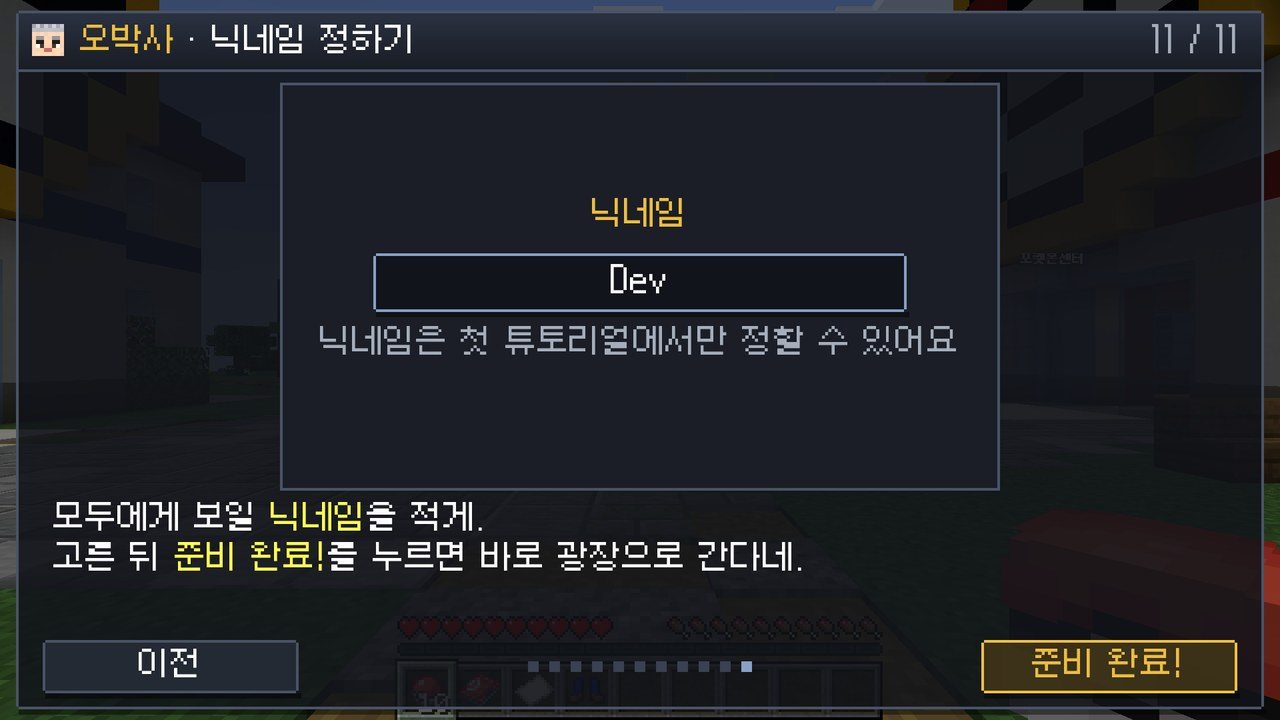
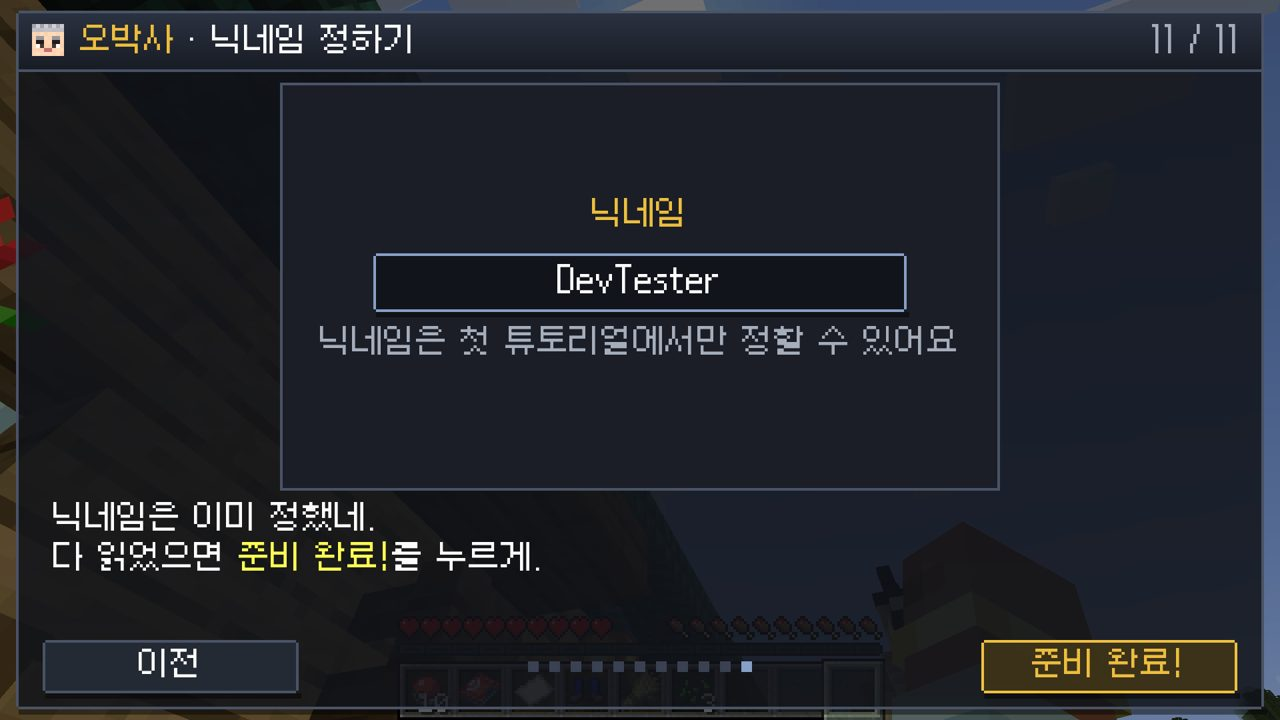
광장 고정 구역: 밭 밟기·화분·통 등 우클릭·라이터 막기, 불 번짐 끔, 닉네임 없는 사람은 다시 보기에서 저장
- FarmlandMixin: 고정 구역(광장·마을·튜토리얼 방) 밭은 흙이 되지 않음, 농장은 주인만
- 라이터·화염구·양동이도 고칠 수 있는 자리에서만
- gamerule doFireTick false
- 문서·사진 갱신

Claude-Session: https://claude.ai/code/session_01KfYadX4RQW6s5szTxe11BK

diff --git a/tests/datapack-test.js b/tests/datapack-test.js
@@ -51,6 +51,7 @@ const join = name => new Promise((res, rej) => {
 
   // 4·7. 규칙
   assert.match(await cmd('gamerule keepInventory'), /true/, '인벤세이브')
+  assert.match(await cmd('gamerule doFireTick'), /false/, '불이 번지거나 블록을 태우지 않음')
   await ok('execute as A if predicate poke:has_saturation', '배고픔 없음')
   await cmd('execute in minecraft:overworld run summon minecraft:zombie 0 -59 0')
   await cmd('execute in minecraft:overworld run summon minecraft:villager 2 -59 0 {NoAI:1b}')

diff --git a/mod/src/main/java/com/pokeserver/Protection.java b/mod/src/main/java/com/pokeserver/Protection.java
@@ -20,9 +20,28 @@ import net.minecraft.world.item.BucketItem;
 import net.minecraft.world.phys.BlockHitResult;
 import net.minecraft.world.phys.HitResult;
 
-/** 6. 농장: 주인만 편집, 다른 사람은 구경만. */
-final class Protection {
+/** 6. 농장: 주인만 편집, 다른 사람은 구경만. 광장·마을·튜토리얼 방은 고정 구역(아무도 못 바꿈). */
+public final class Protection {
     private Protection() {}
+
+    /** 고정 구역: 광장 둘레, 마을, 튜토리얼 방. */
+    public static boolean frozen(net.minecraft.world.level.Level level, net.minecraft.core.BlockPos pos) {
+        String dim = level.dimension().location().toString();
+        return dim.equals("poke:town") || dim.equals("poke:hub") || Plaza.protects(level, pos);
+    }
+
+    /** 우클릭만으로 모습이 바뀌거나 물건이 나오는 블록 (화분 꽃 빼기, 통 안 물건, 모닥불 음식 등). 문·PC·회복 기계·작업대는 그대로 사용. */
+    static boolean changesOnUse(net.minecraft.world.level.block.Block b) {
+        return b instanceof net.minecraft.world.level.block.FlowerPotBlock || b instanceof net.minecraft.world.level.block.BarrelBlock
+                || b instanceof net.minecraft.world.level.block.ChestBlock || b instanceof net.minecraft.world.level.block.CampfireBlock
+                || b instanceof net.minecraft.world.level.block.LecternBlock || b instanceof net.minecraft.world.level.block.ComposterBlock
+                || b instanceof net.minecraft.world.level.block.CakeBlock || b instanceof net.minecraft.world.level.block.CandleBlock
+                || b instanceof net.minecraft.world.level.block.CandleCakeBlock || b instanceof net.minecraft.world.level.block.SweetBerryBushBlock
+                || b instanceof net.minecraft.world.level.block.JukeboxBlock || b instanceof net.minecraft.world.level.block.NoteBlock
+                || b instanceof net.minecraft.world.level.block.DiodeBlock || b instanceof net.minecraft.world.level.block.DaylightDetectorBlock
+                || b instanceof net.minecraft.world.level.block.BeehiveBlock || b instanceof net.minecraft.world.level.block.DecoratedPotBlock
+                || b instanceof net.minecraft.world.level.block.ChiseledBookShelfBlock;
+    }
 
     /** 체력바 위 가운데 알림: 누구 땅인지. */
     static void deny(Player p, net.minecraft.world.level.Level level, net.minecraft.core.BlockPos pos) {
@@ -55,10 +74,18 @@ final class Protection {
         });
         UseBlockCallback.EVENT.register((player, level, hand, hit) -> {
             if (level.isClientSide()) return InteractionResult.PASS;
-            // 5. 농장 밖(광장 등): 문·PC·회복 기계는 쓰고, 블록은 고칠 수 있는 자리에만 놓음
+            // 5. 농장 밖(광장 등): 문·PC·회복 기계는 쓰고, 블록·불·물은 고칠 수 있는 자리에만 놓음
             if (!Farms.isFarm(level)) {
-                if (!(player.getItemInHand(hand).getItem() instanceof BlockItem)
-                        || Farms.canEdit(player, level, hit.getBlockPos().relative(hit.getDirection()))) return InteractionResult.PASS;
+                // 고정 구역의 화분·통·모닥불 등은 우클릭도 막음 (관리자 크리에이티브는 canEdit가 허용)
+                if (Protection.frozen(level, hit.getBlockPos()) && !Farms.canEdit(player, level, hit.getBlockPos())
+                        && changesOnUse(level.getBlockState(hit.getBlockPos()).getBlock())) {
+                    deny(player, level, hit.getBlockPos());
+                    return InteractionResult.FAIL;
+                }
+                var item = player.getItemInHand(hand).getItem();
+                boolean changes = item instanceof BlockItem || item instanceof net.minecraft.world.item.FlintAndSteelItem
+                        || item instanceof net.minecraft.world.item.FireChargeItem || item instanceof BucketItem;
+                if (!changes || Farms.canEdit(player, level, hit.getBlockPos().relative(hit.getDirection()))) return InteractionResult.PASS;
                 deny(player, level, hit.getBlockPos().relative(hit.getDirection()));
                 return InteractionResult.FAIL;
             }

diff --git a/mod/src/main/java/com/pokeserver/mixin/FarmlandMixin.java b/mod/src/main/java/com/pokeserver/mixin/FarmlandMixin.java
@@ -1,0 +1,25 @@
+package com.pokeserver.mixin;
+
+import com.pokeserver.Farms;
+import com.pokeserver.Protection;
+import net.minecraft.core.BlockPos;
+import net.minecraft.world.entity.Entity;
+import net.minecraft.world.entity.player.Player;
+import net.minecraft.world.level.Level;
+import net.minecraft.world.level.block.FarmBlock;
+import net.minecraft.world.level.block.state.BlockState;
+import org.spongepowered.asm.mixin.Mixin;
+import org.spongepowered.asm.mixin.injection.At;
+import org.spongepowered.asm.mixin.injection.Inject;
+import org.spongepowered.asm.mixin.injection.callback.CallbackInfo;
+
+/** 밭이 흙으로 바뀌는 것(밟기·마름)을 막음: 광장 등 고정 구역은 항상, 농장은 땅 주인이 밟을 때만 허용. */
+@Mixin(FarmBlock.class)
+public class FarmlandMixin {
+    @Inject(method = "turnToDirt", at = @At("HEAD"), cancellable = true)
+    private static void pokeserver$keep(Entity entity, BlockState state, Level level, BlockPos pos, CallbackInfo ci) {
+        if (level.isClientSide()) return;
+        if (Protection.frozen(level, pos)) { ci.cancel(); return; }
+        if (Farms.isFarm(level) && entity != null && !(entity instanceof Player p && Farms.canEdit(p, level, pos))) ci.cancel();
+    }
+}

diff --git a/mod/src/main/java/com/pokeserver/Menu.java b/mod/src/main/java/com/pokeserver/Menu.java
@@ -26,8 +26,7 @@ final class Menu {
     }
 
     static void action(ServerPlayer p, String a) {
-        if (a.startsWith("tutorial_done:")) {                     // 8. 튜토리얼 마지막 쪽에서 정한 닉네임
-            if (!p.level().dimension().location().toString().equals("poke:hub")) return;
+        if (a.startsWith("tutorial_done:")) {                     // 8. 튜토리얼 마지막 쪽에서 정한 닉네임 (아직 없을 때만; 광장 이동은 튜토리얼 방에서만)
             // 3. 닉네임은 첫 튜토리얼에서만: 이미 있으면 새로 적은 것은 무시
             String why = ServerData.get(p.server).nicks.containsKey(p.getUUID()) ? null : Nicknames.set(p, a.substring("tutorial_done:".length()));
             if (why != null) {

diff --git a/docs/UI정리.md b/docs/UI정리.md
@@ -15,6 +15,7 @@
 - 그 아래 **내 정보 카드**: 얼굴·[칭호] 닉네임, 잡은 포켓몬·마주친 포켓몬(수 / 전체 종 · %, 막대) | 잔액 · 배지 · **레벨 제한**.
 - 맨 아래 **공지사항** 줄 (길면 마우스를 올려 전체 보기).
 - 튜토리얼 전엔 워프 칸이 흐리게 잠김. 마지막으로 고른 분류는 다시 열어도 유지.
+- **튜토리얼** 칸: 오박사에게 이동하지 않고 설명 창만 다시 열림. 마지막 쪽 "준비 완료!"는 창만 닫음.
 - 코드: `MenuScreen.java`
 
 ### 오른쪽 정보창 (항상)
@@ -82,7 +83,7 @@
 - 키보드로 입력 (한글·영어·숫자·_ 2~12글자). 틀리면 빨간 테두리·안내.
 - 다른 사람의 닉네임·아이디와 겹치면 닉네임 쪽이 다시 열리고 빨간 글씨로 "다른 사람의 아이디와 같은 닉네임은 쓸 수 없어요."
 - 준비 완료! → 보상 → **바로 광장 마을로 이동** → 2초 뒤 스타팅 포켓몬 고르기 창.
-- 닉네임은 **첫 튜토리얼에서만** 정함. 튜토리얼을 다시 하면 이 쪽은 지금 닉네임만 보여 주고 바꿀 수 없음 ("닉네임은 첫 튜토리얼에서만 정할 수 있어요").
+- 닉네임은 **첫 튜토리얼에서만** 정함. 다시 보면 이 쪽은 지금 닉네임만 보여 주고 바꿀 수 없음 ("닉네임은 이미 정했네. 다 읽었으면 준비 완료!를 누르게").
 
 ## 5. 땅 등록 팝업
 ![땅 등록](ui/10_claim.jpg)
@@ -109,6 +110,10 @@
 - **얻는 조건은 칸에 마우스를 올리면 말풍선**으로 (얻었는지도 같이). 마우스를 떼면 사라짐.
 - 코드: `Titles.java`(서버), `TitleScreen.java`
 - 코드: `Nicknames.java`, 믹스인 `PlayerNameMixin`·`TabNameMixin`
+
+### 전체 초기화 (`/초기화`)
+![전체 초기화](ui/21_reset_all.jpg)
+- 접속한 모두에게 "서버 전체를 초기화합니다. 1~2분 뒤 다시 접속해 주세요." → 서버가 꺼지고 새 월드로 다시 켜짐.
 
 ## 8. Cobblemon 기본 화면 (모드 그대로)
 ![스타팅 선택](ui/11_starter.jpg)

diff --git a/docs/서버안내.md b/docs/서버안내.md
@@ -15,7 +15,10 @@ Minecraft 1.21.1 Fabric 포켓몬 서버 (Cobblemon). 맵별로 정리.
 - 오른쪽 가운데 **정보창**: 닉네임, 위치, 소지금, 배지, 시간, 바이옴, 좌표.
 - 미니맵(Xaero), 배틀 화면 확장(상성·속도 범위 표시).
 - 명령어 전체: `docs/명령어.md`.
-- 초기화 (운영자만): `/초기화` = 서버의 모든 플레이어, `/초기화 닉네임` = 그 사람만.
+- 초기화 (운영자만): `/초기화` = **맵까지 전부 새로** (서버가 꺼졌다가 새 월드로 켜짐), `/초기화 닉네임` = 그 사람만 (바로 튜토리얼 방으로).
+- **광장 마을 안**은 고정 구역(모험 모드): 블록 놓기·부수기·불 붙이기·밭 밟기·화분 꽃 빼기·통 열기 모두 안 됨 (문·PC·회복 기계·작업대는 사용 가능). 광장 밖으로 나가면 생존 모드. 마을·튜토리얼 방도 같음.
+- **불**은 번지거나 블록을 태우지 않음 (`doFireTick` 꺼짐).
+- G 메뉴의 **튜토리얼**: 설명 창만 다시 열림 (오박사에게 이동하지 않음).
 - **플레이어끼리 때리기**: 블록을 고칠 수 없는 곳(광장 마을·체육관·연구소·남의 농장 땅)에서는 안 됨. 야생(광장 밖)과 내 농장 땅에서만.
 - **스타팅 포켓몬**: 레벨 5, 기술은 그 포켓몬이 처음 나온 원작에서 레벨 5까지 배우는 것 (예: 이상해씨 몸통박치기·울음소리).
 - **야생 포켓몬**: 광장 가운데에서 108칸 안에는 안 나옴. 렉 방지로 야생에 있는 사람 1명당 30마리까지만.

diff --git a/docs/명령어.md b/docs/명령어.md
@@ -41,10 +41,10 @@
 | `/pokeserver menu 닉네임` | 메인 메뉴 열어 주기 |
 | `/pokeserver shop 닉네임` | 상점 열어 주기 |
 | `/pokeserver tutorial 닉네임` | 오박사 튜토리얼 창 열어 주기 |
-| `/초기화` (`/reset`) | **서버의 모든 플레이어** 초기화 (접속 안 한 사람은 다음 접속 때). 되돌릴 수 없음 |
-| `/초기화 닉네임` (`/reset 닉네임`) | 그 사람만 초기화 (접속 중인 사람) |
+| `/초기화` (`/reset`) | **서버 전체 초기화: 맵까지 새로**. 모두 내보내고 서버를 끔 → 다음 시작 때 새 월드 (`start.bat`이 바로 다시 켬). 이전 월드는 서버 폴더 `world-backup-...`에 보관 |
+| `/초기화 닉네임` (`/reset 닉네임`) | 그 사람만 초기화 (접속 중인 사람): 아이템·돈·땅·포켓몬·도감·배지·칭호 기록 → 바로 튜토리얼 방으로, 다시 끝내면 기본 물품(5,000원 등) 다시 받음 |
 | `/pokeserver reset 닉네임` | 그 사람 전체 초기화 |
-| `/function poke:admin/reset_me` | 내 튜토리얼만 다시 (보상은 다시 안 줌) |
+| `/function poke:admin/reset_me` | 테스트용: 내 튜토리얼만 다시 (보상은 다시 안 줌) |
 
 ### 서버·월드
 | 명령어 | 하는 일 |

diff --git a/docs/서버_여는법.md b/docs/서버_여는법.md
@@ -17,7 +17,10 @@
 7. 서버 창에 `op 내아이디` → 운영자 권한 (칭호 `[운영자]`가 붙음).
 8. 끌 때는 서버 창에 `stop` (X로 닫지 않기).
 
-수정사항 반영: 데이터팩은 `update.bat` → 서버 창 `reload`. 모드는 `stop` → `start.bat`.
+**업데이트 반영 (가장 간단한 방법)**: 서버 창에 `stop` → 꺼지면 `start.bat` 다시 실행. `start.bat`이 켜기 전에 GitHub에서 최신 모드·데이터팩을 자동으로 받습니다.
+- 친구(접속하는 사람)는 게임을 껐다 켜면 됨 (실행 전 명령이 최신 모드를 받음).
+- `start.bat`/`update.bat` 파일 자체가 바뀐 경우만 1-1처럼 다시 내려받기 (전체 초기화 후 자동 재시작은 새 `start.bat`이 필요).
+- 데이터팩만 바뀐 경우 끄지 않고 `update.bat` → 서버 창 `reload`도 됨. 헷갈리면 그냥 `stop` → `start.bat`.
 
 ## 2. 혼자 플레이 (로컬호스트)
 
